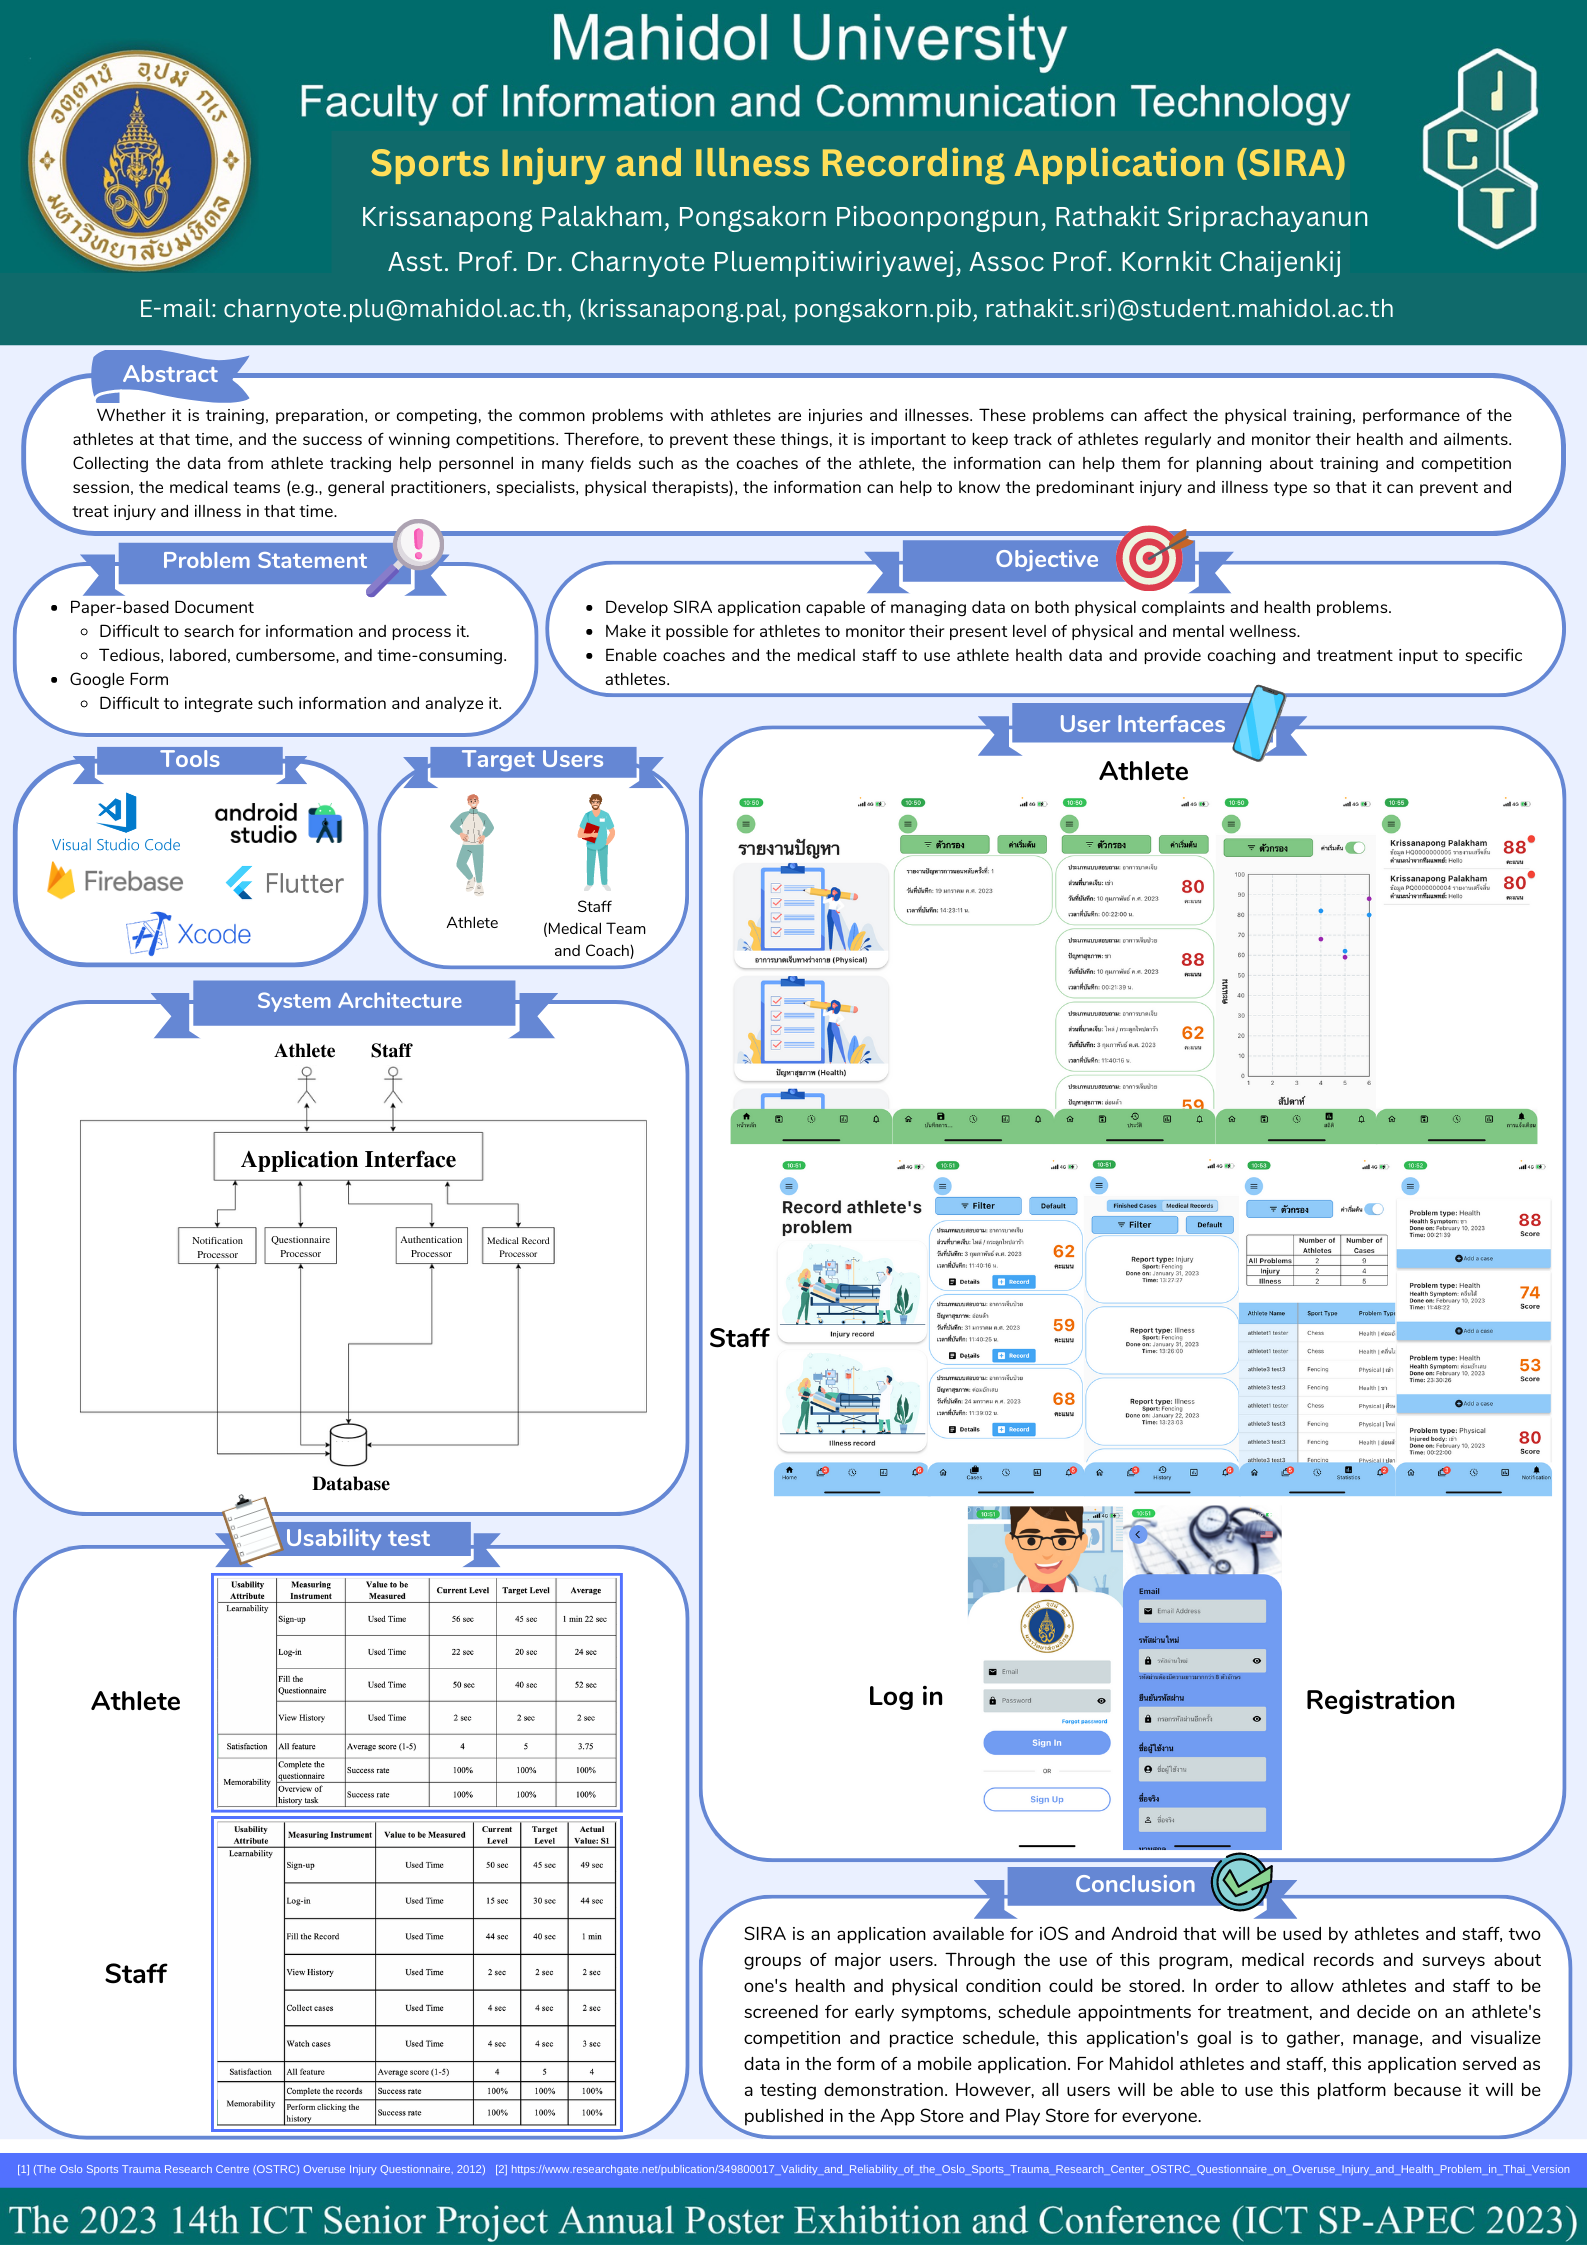
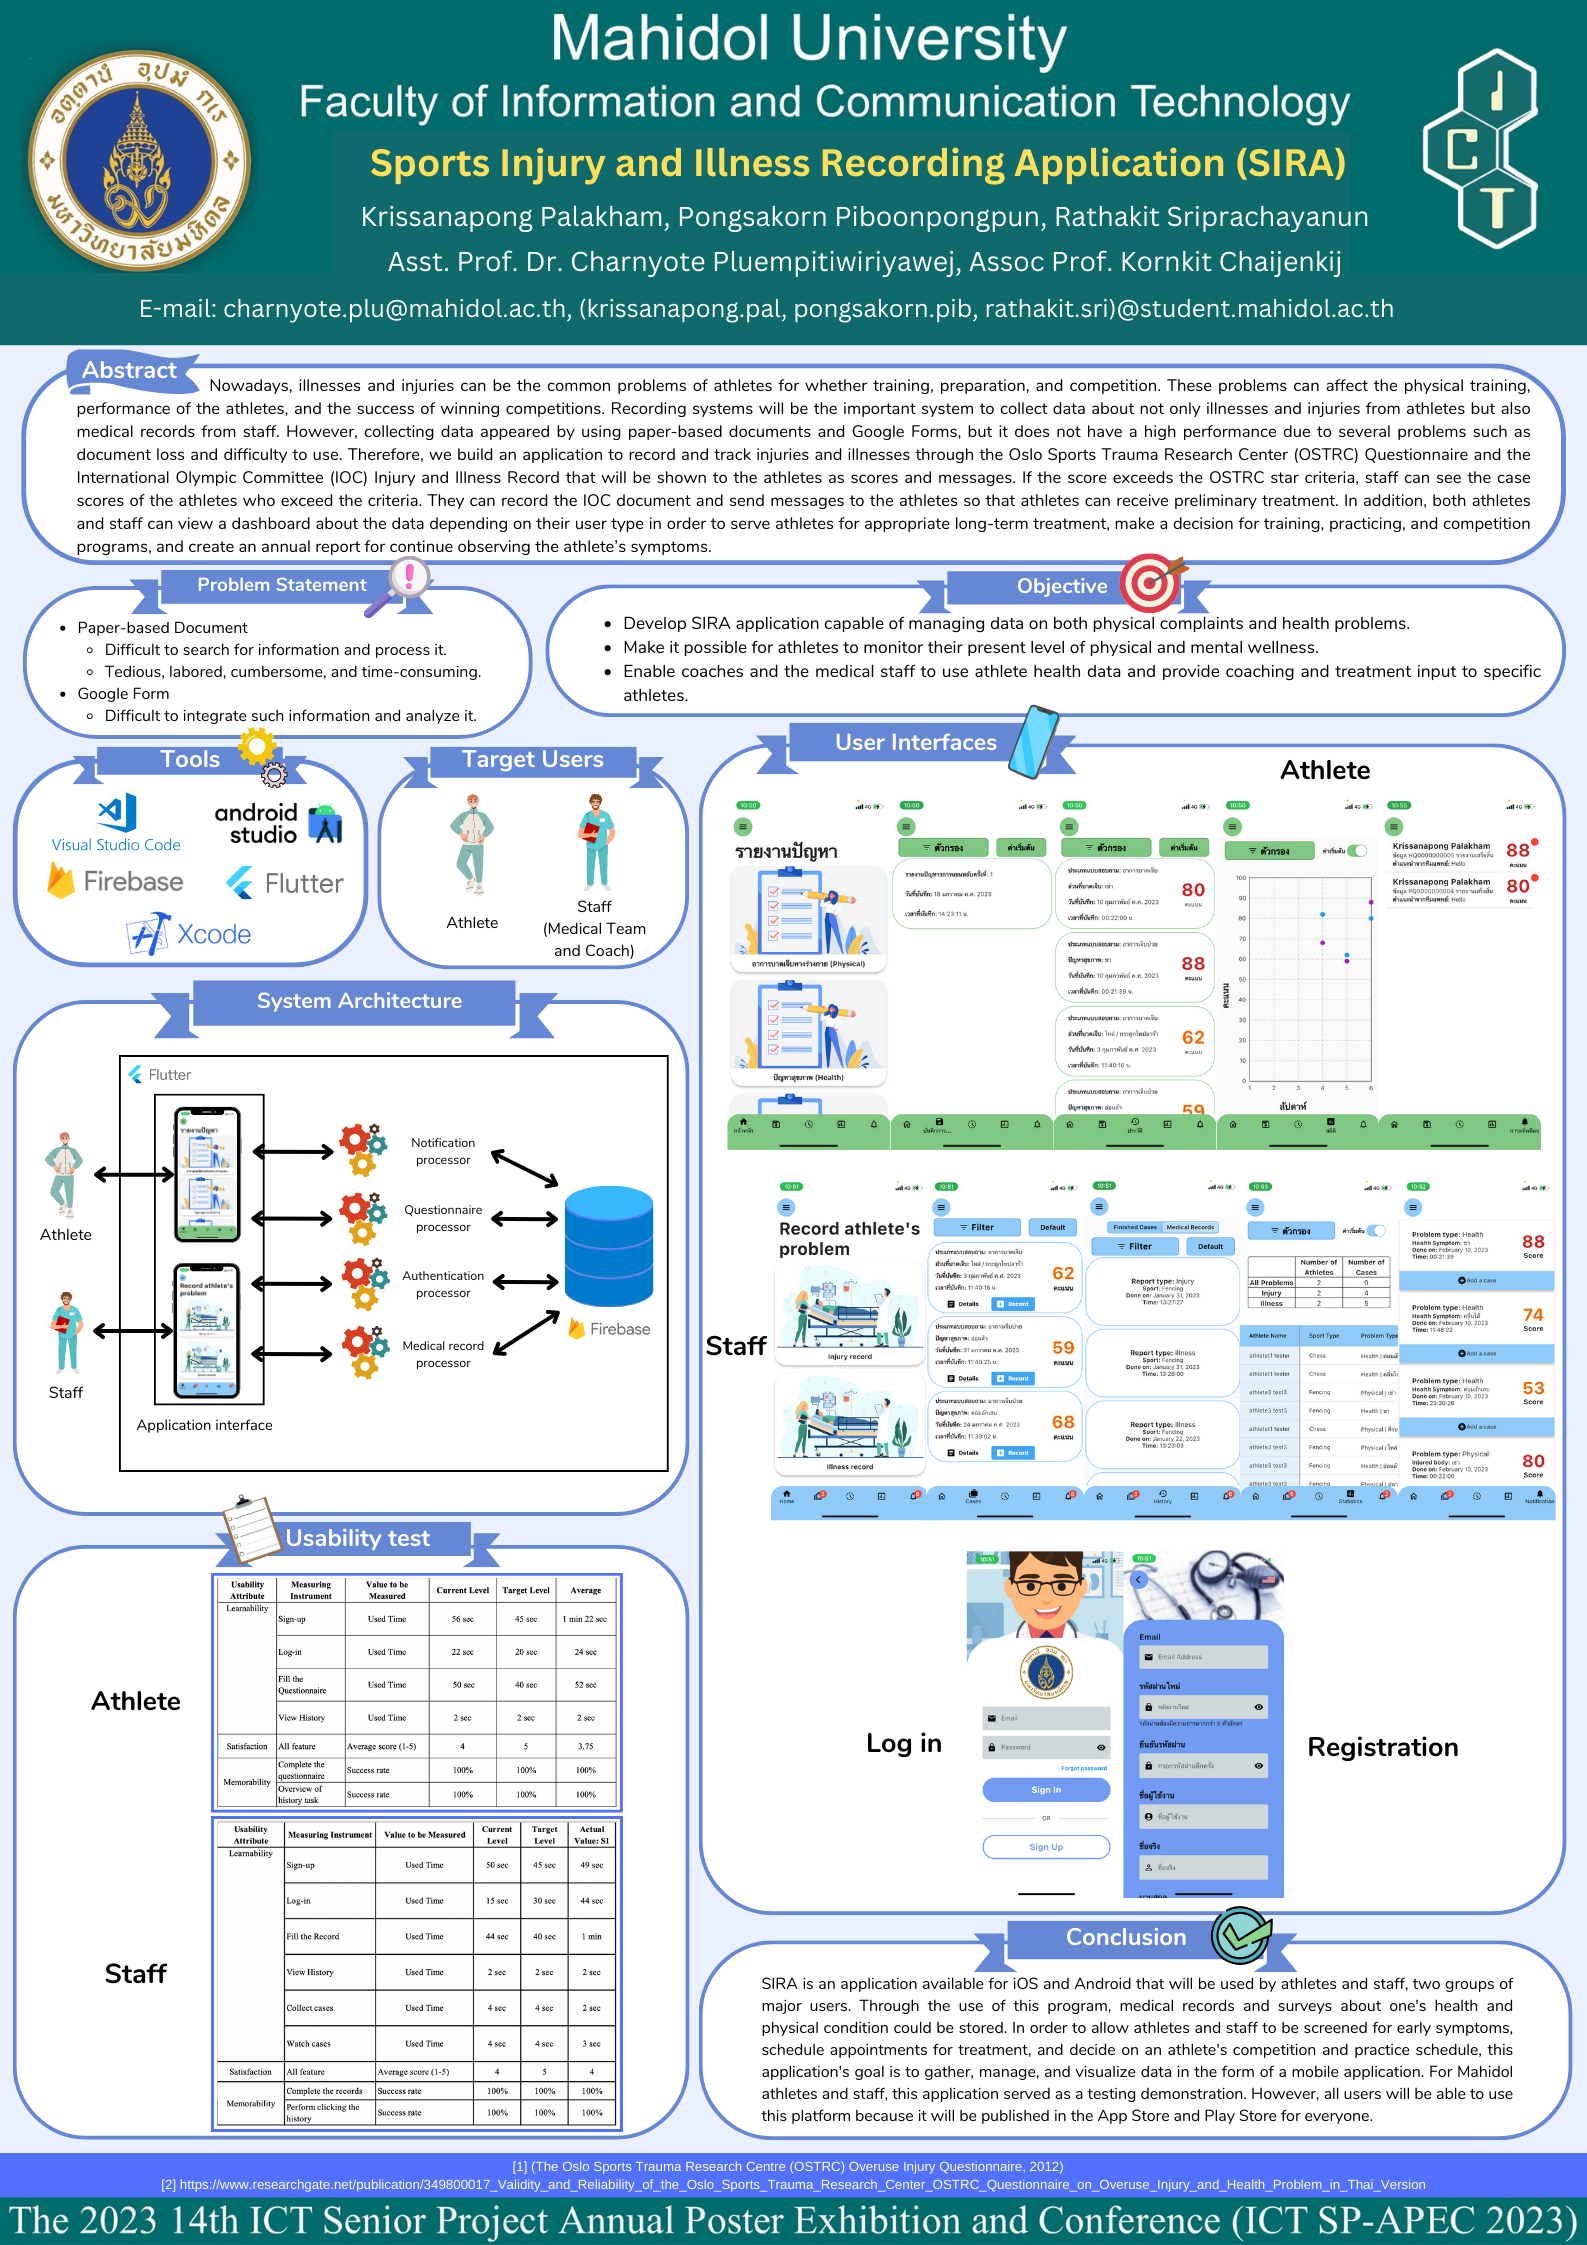
Updated 4/3/2023

Changed region(s): [[0.0, 0.1559, 1.0, 0.9978], [0.0309, 0.4677, 0.4323, 0.686], [0.5558, 0.7483, 0.5866, 0.7795]]

diff --git a/seniorapp/lib/component/page/staff-page/received_case/health_report_case.dart b/seniorapp/lib/component/page/staff-page/received_case/health_report_case.dart
@@ -5,6 +5,7 @@ import 'package:flutter/cupertino.dart';
 import 'package:flutter/gestures.dart';
 import 'package:flutter/material.dart';
 import 'package:seniorapp/component/page/athlete-page/questionnaire-page/result.dart';
+import 'package:seniorapp/component/page/staff-page/received_case/appointment.dart';
 import 'package:seniorapp/component/page/staff-page/record/illness_record.dart';
 import 'package:seniorapp/component/result-data/health_result_data.dart';
 import 'package:seniorapp/component/user-data/athlete_data.dart';
@@ -433,28 +434,63 @@ class _HealthReportCaseState extends State<HealthReportCase> {
                           ),
                         ],
                       ),
-                    widget.healthResultData.caseFinished == false
-                        ? ElevatedButton.icon(
-                            style: ElevatedButton.styleFrom(
-                              primary: Colors.blue[300],
-                            ),
-                            onPressed: () {
-                              Navigator.push(
-                                context,
-                                MaterialPageRoute(
-                                  builder: (context) => IllnessReport(
-                                      widget.healthResultData,
-                                      widget.docID,
-                                      athlete),
+                    Row(
+                      mainAxisAlignment: MainAxisAlignment.spaceBetween,
+                      children: [
+                        widget.healthResultData.caseFinished == false
+                            ? ElevatedButton.icon(
+                                style: ElevatedButton.styleFrom(
+                                  primary: Colors.blue[300],
                                 ),
-                              );
-                            },
-                            icon: const Icon(
-                              Icons.create,
+                                onPressed: () {
+                                  Navigator.push(
+                                    context,
+                                    MaterialPageRoute(
+                                      builder: (context) => IllnessReport(
+                                          widget.healthResultData,
+                                          widget.docID,
+                                          athlete),
+                                    ),
+                                  );
+                                },
+                                icon: const Icon(
+                                  Icons.create,
+                                ),
+                                label: const Text('Record new illness'),
+                              )
+                            : const SizedBox(),
+                        ElevatedButton.icon(
+                          style: ElevatedButton.styleFrom(
+                            primary: Colors.white,
+                            elevation: 0,
+                            side: BorderSide(
+                              width: 1,
+                              color: Colors.blue[200],
                             ),
-                            label: const Text('Record new illness'),
-                          )
-                        : const SizedBox(),
+                          ),
+                          onPressed: () {
+                            showCupertinoDialog(
+                                context: context,
+                                builder: (BuildContext context) {
+                                  return AlertDialog(
+                                    title: Text('Appointment'),
+                                    content: AppointmentPage(),
+                                  );
+                                });
+                          },
+                          icon: Icon(
+                            Icons.calendar_month,
+                            color: Colors.blue[200],
+                          ),
+                          label: Text(
+                            'Appointment',
+                            style: TextStyle(
+                              color: Colors.blue[200],
+                            ),
+                          ),
+                        ),
+                      ],
+                    ),
                     PaddingDecorate(10),
                   ],
                 ),

diff --git a/seniorapp/lib/component/page/staff-page/received_case/appointment.dart b/seniorapp/lib/component/page/staff-page/received_case/appointment.dart
@@ -1,0 +1,38 @@
+import 'package:flutter/material.dart';
+
+class AppointmentPage extends StatefulWidget {
+  @override
+  _AppointmentPageState createState() => _AppointmentPageState();
+}
+
+class _AppointmentPageState extends State<AppointmentPage> {
+  @override
+  Widget build(BuildContext context) {
+    return Container(
+      child: Column(
+        children: [
+          Text('Hello'),
+          Row(
+            crossAxisAlignment: CrossAxisAlignment.end,
+            children: [
+              ElevatedButton(
+                style: ElevatedButton.styleFrom(
+                  primary: Colors.red[300],
+                ),
+                onPressed: () => Navigator.of(context).pop(),
+                child: Text('Cancel'),
+              ),
+              ElevatedButton(
+                style: ElevatedButton.styleFrom(
+                  primary: Colors.green,
+                ),
+                onPressed: () {},
+                child: Text('Accept'),
+              ),
+            ],
+          ),
+        ],
+      ),
+    );
+  }
+}

diff --git a/seniorapp/lib/component/page/staff-page/staff_graph.dart b/seniorapp/lib/component/page/staff-page/staff_graph.dart
@@ -231,7 +231,6 @@ class _StaffGraphState extends State<StaffGraph> {
   Widget build(BuildContext context) {
     final h = MediaQuery.of(context).size.height;
     final w = MediaQuery.of(context).size.width;
-    final pixRatio = MediaQuery.of(context).devicePixelRatio;
 
     return Column(
       children: [
